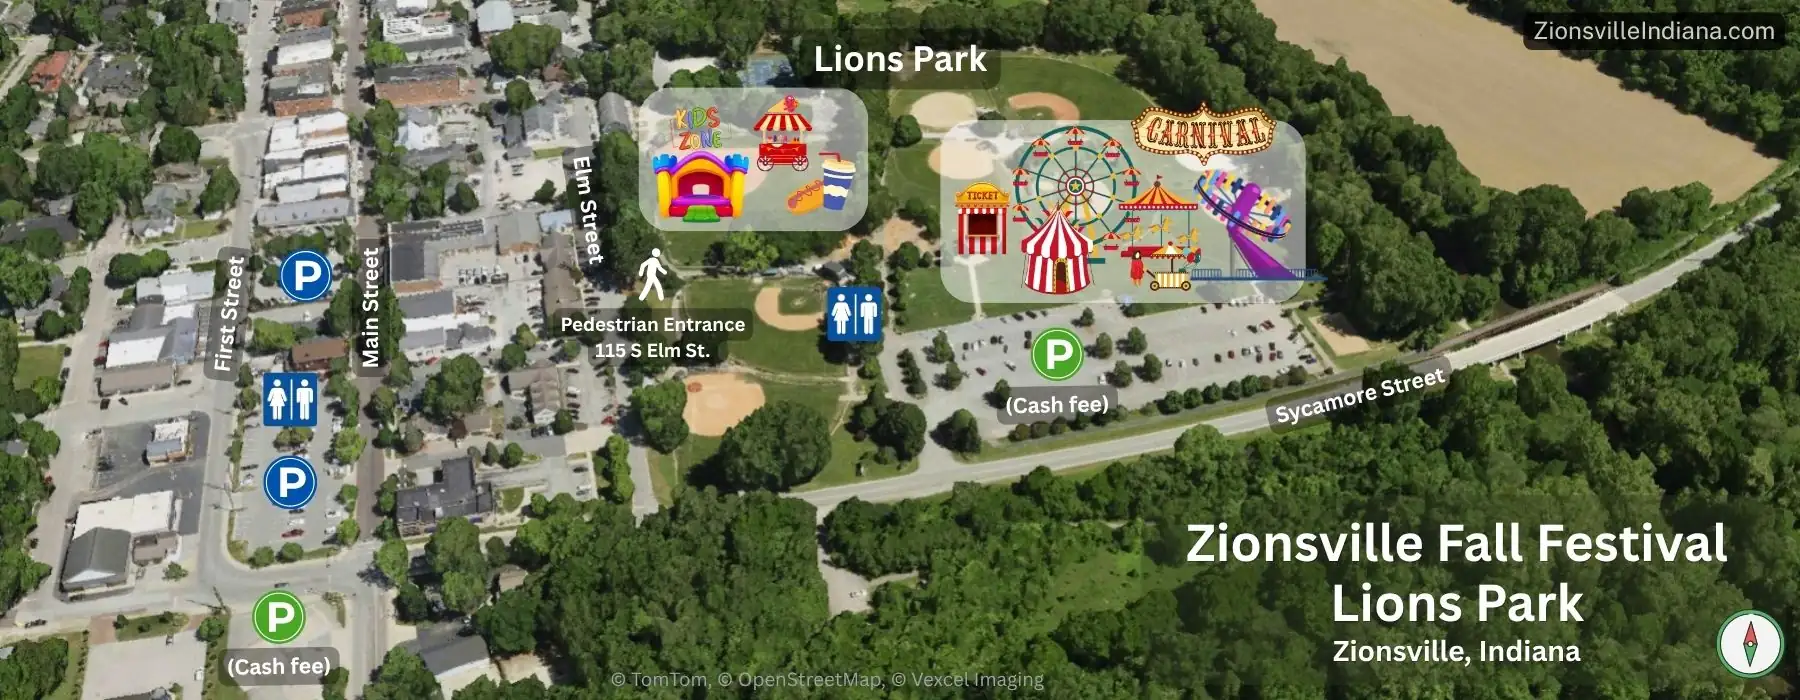
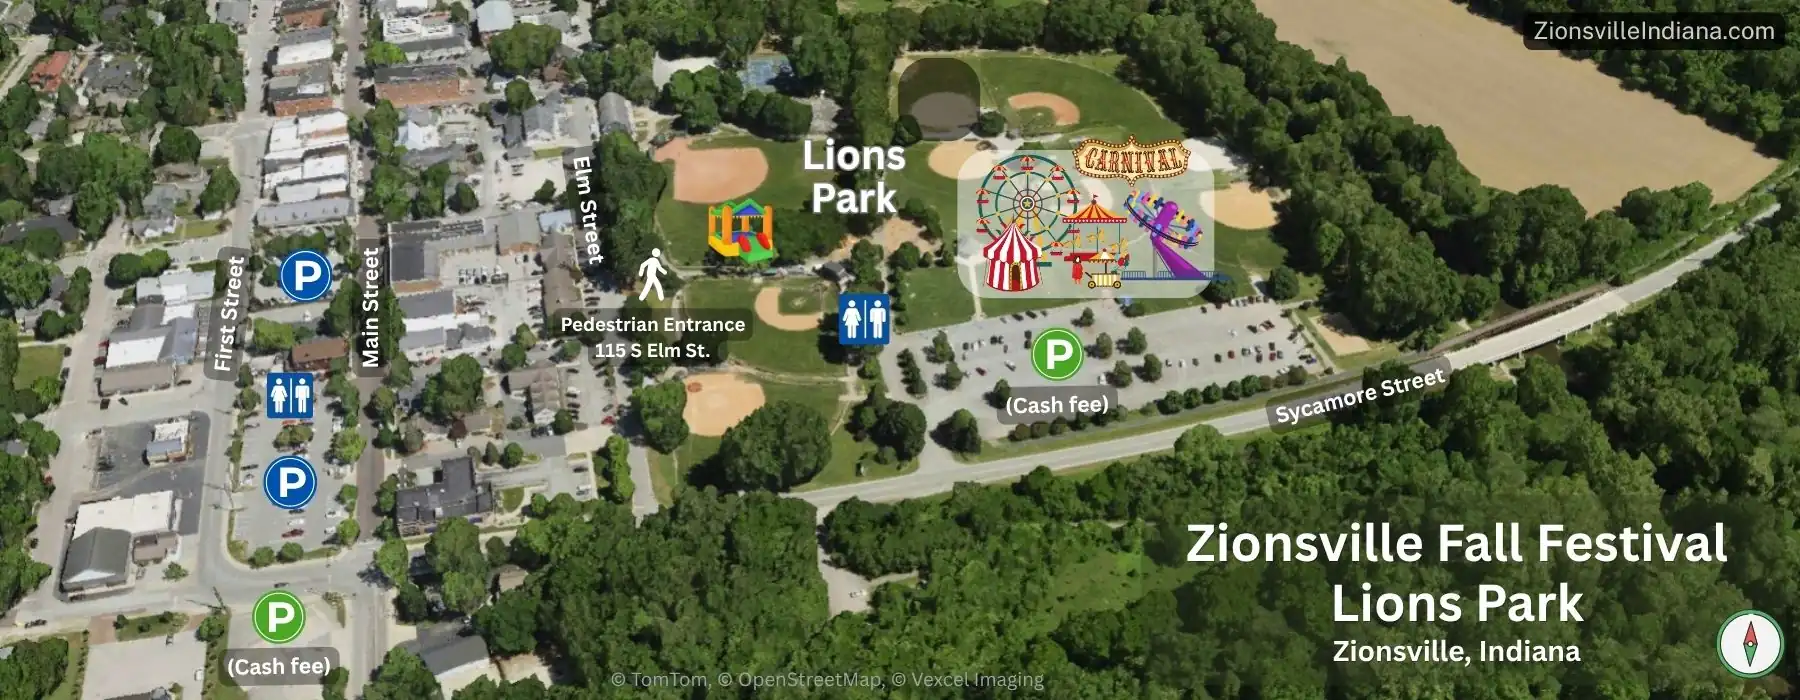
eagle fest

Changed region(s): [[0.3422, 0.03, 0.7467, 0.51], [0.1244, 0.54, 0.1867, 0.63]]

diff --git a/app/events/[slug]/page.tsx b/app/events/[slug]/page.tsx
@@ -36,14 +36,27 @@ export async function generateMetadata({ params }: Props): Promise<Metadata> {
   }
 }
 
+/** Accepts a short schema.org enum name ("EventScheduled", "InStock") or a
+ *  full URL. Returns a full https://schema.org/... URL either way. */
+function schemaUrl(value: string): string {
+  return value.startsWith('http') ? value : `https://schema.org/${value}`
+}
+
 function buildEventSchema(meta: Awaited<ReturnType<typeof getEvent>>['meta']) {
-  return {
+  const schema: Record<string, unknown> = {
     '@context': 'https://schema.org',
     '@type': meta.eventType === 'recurring' ? 'EventSeries' : 'Event',
     name: meta.title,
+    ...(meta.alternateName && { alternateName: meta.alternateName }),
     description: meta.description,
-    startDate: meta.startDate,
-    ...(meta.endDate && { endDate: meta.endDate }),
+    // Prefer full datetime if frontmatter provides it; else date-only.
+    startDate: meta.startDateTime ?? meta.startDate,
+    ...((meta.endDateTime || meta.endDate) && {
+      endDate: meta.endDateTime ?? meta.endDate,
+    }),
+    // Google assumes EventScheduled when omitted, but explicit is clearer
+    // and lets frontmatter override for cancelled/postponed events.
+    eventStatus: schemaUrl(meta.eventStatus ?? 'EventScheduled'),
     location: {
       '@type': 'Place',
       name: meta.location,
@@ -64,6 +77,21 @@ function buildEventSchema(meta: Awaited<ReturnType<typeof getEvent>>['meta']) {
       url: 'https://zionsvilleindiana.com',
     },
   }
+
+  // Ticket offer — optional. Emit only when frontmatter provides an `offer`
+  // block. Use a single Offer (not AggregateOffer) — the price and URL should
+  // point to a ticket a user can actually purchase at that price.
+  if (meta.offer) {
+    schema.offers = {
+      '@type': 'Offer',
+      price: meta.offer.price,
+      priceCurrency: meta.offer.priceCurrency,
+      url: meta.offer.url,
+      availability: schemaUrl(meta.offer.availability ?? 'InStock'),
+    }
+  }
+
+  return schema
 }
 
 function formatEventDate(meta: Awaited<ReturnType<typeof getEvent>>['meta']): string {

diff --git a/content/events/eagle-fest.md b/content/events/eagle-fest.md
@@ -1,0 +1,160 @@
+---
+title: Eagle Fest 2026
+alternateName: ["EagleFest 2026", "EagleFest"]
+seoTitle: "Eagle Fest 2026 in Zionsville: Tickets, Activities & Football"
+description: "Eagle Fest 2026 takes place Friday, August 28 at Jennings Field in Zionsville. Includes presale ticket prices, food trucks, activities, and game info."
+eventType: annual
+startDate: "2026-08-28"
+endDate: "2026-08-28"
+startDateTime: "2026-08-28T17:00:00-04:00"
+endDateTime: "2026-08-28T19:00:00-04:00"
+location: Jennings Field, Zionsville
+address: "1130 Bloor Ln, Zionsville, IN 46077"
+externalUrl: https://public.eventlink.com/tickets?t=196393&p=299710
+offer:
+  price: "9.90"
+  priceCurrency: "USD"
+  url: "https://public.eventlink.com/tickets?t=196393&p=299710"
+  availability: "InStock"
+image: /images/events/eagle-fest-hero.webp
+imageAlt: Eagle Fest at Jennings Field in Zionsville
+hero_position: "center 45%"
+photoCredit: ""
+photoCreditHeroOnly: false
+featured: true
+tags: [festival, family, annual, sports, school, football]
+metaTitle: "Eagle Fest 2026 in Zionsville: Tickets, Activities & Football"
+metaDescription: "Eagle Fest 2026: Friday, August 28 at Jennings Field. Bounce houses, food trucks, dunk tanks, school performances, and the ZCHS vs. Lawrence Central football game."
+faqs:
+  - q: "When is Eagle Fest 2026?"
+    a: "Eagle Fest 2026 is on Friday, August 28, 2026, from 5:00 to 7:00 PM at Jennings Field."
+  - q: "Where is Eagle Fest held?"
+    a: "Eagle Fest is held at Jennings Field, 1130 Bloor Ln, Zionsville, IN 46077, across Hal Sharpe Road from the Zionsville Community High School football stadium."
+  - q: "How much does Eagle Fest cost?"
+    a: "Admission is $9 for in-person presale, $9.90 for online presale, or $10 at the gate. Admission includes unlimited use of the bounce houses during the event."
+  - q: "Where can I buy Eagle Fest tickets?"
+    a: "In-person presale tickets are sold at Kern Bros. Shoes in Boone Village, Fundae’s, Zionsville Middle School, Zionsville West Middle School, and the ZCHS Athletic Department. Online tickets are available at Eventlink through Thursday, August 27."
+  - q: "Is the football game included with Eagle Fest admission?"
+    a: "No. Eagle Fest tickets do not include admission to the ZCHS football game. Football tickets are purchased separately at the stadium ticket window."
+  - q: "What food is available at Eagle Fest?"
+    a: "Scheduled food trucks include Backroads BBQ, Fillers, Fundae’s, Grace Truck, Taco Loco, The Savory Stagecoach, and Tropical Sno."
+  - q: "Are Eagle Fest tickets refundable?"
+    a: "No. Eagle Fest ticket sales are final and nonrefundable. Refunds are not issued for rain, inclement weather, or event cancellation."
+  - q: "Who plays the ZCHS football game after Eagle Fest?"
+    a: "The Zionsville Eagles host Lawrence Central at 7:30 PM on Friday, August 28, in the football stadium across the road from Jennings Field."
+  - q: "Is it Eagle Fest or EagleFest?"
+    a: "Both spellings refer to the same event. The Zionsville Athletic Booster Club uses ‘Eagle Fest,’ while some ZCS materials use ‘EagleFest.’ This page uses ‘Eagle Fest’ throughout."
+---
+
+Eagle Fest (also written EagleFest) returns for its 42nd year on Friday, August 28, 2026, kicking off the 2026–27 Zionsville school athletics season. This longtime community tradition brings families, students, school staff, and neighbors to Jennings Field for food trucks, bounce houses, games, music, and performances before the ZCHS football game later that evening.
+
+Organized by the Zionsville Athletic Booster Club, Eagle Fest also serves as a fundraiser supporting athletic programs at Zionsville Community High School, Zionsville Middle School, and Zionsville West Middle School.
+
+<figure>
+  <a href="/images/events/zionsville-eagle-fest-jennings-field-map.webp" target="_blank" rel="noopener noreferrer" aria-label="View full-size festival map in new tab">
+    <img src="/images/events/zionsville-eagle-fest-jennings-field-map.webp" alt="Aerial map showing Jennings Field event space, ticket admission entrance, designated parking lots, and Zionsville Community High School stadium." class="rounded-lg shadow-sm cursor-zoom-in" />
+  </a>
+  <figcaption class="text-xs text-stone-500 italic mt-2">
+    Aerial layout and parking map for Eagle Fest at Jennings Field, located across Hal Sharpe Road from the high school football stadium.
+  </figcaption>
+</figure>
+
+<div class="bg-amber-50 border-l-4 border-amber-400 rounded-r-lg px-6 py-5 my-8">
+
+## Good to Know Before You Go
+
+- **Presale ends Thursday, August 27.** Tickets are $9 in person or $9.90 online; admission is $10 at the gate (cash or credit card).
+- **Unlimited bounce house access** is included with admission.
+- **Parking at Jennings Field fills quickly.** Additional parking is available at ZCHS across Hal Sharpe Rd.
+- **Tickets are nonrefundable.** Ticket sales are final; refunds are not issued for rain, inclement weather, or event cancellation.
+- **Campus rules apply.** Alcohol, tobacco, drugs, and weapons are prohibited on school grounds.
+
+</div>
+
+## Event overview
+
+| Detail            | Information                                                     |
+| :---------------- | :-------------------------------------------------------------- |
+| **Date & Time**   | Friday, August 28, 2026 · 5:00–7:00 PM                          |
+| **Location**      | [Jennings Field](https://maps.app.goo.gl/u8eweNVAKn8mqMQV9), across Hal Sharpe Road from the ZCHS football stadium.   |
+| **Admission**     | $9 in-person presale · [$9.90 online presale](https://public.eventlink.com/tickets?t=196393&p=299710) · $10 at the gate   |
+| **Football Game** | ZCHS vs. Lawrence Central at 7:30 PM · Separate ticket required |
+
+<figure className="my-8">
+  <Image
+    src="/images/events/zionsville-eagle-fest-bounce-houses.webp"
+    alt="Inflatable bounce houses and obstacle courses on Jennings Field during Eagle Fest in Zionsville."
+    width={1800}
+    height={1200}
+    className="w-full h-auto rounded"
+  />
+  <figcaption className="text-sm text-stone-600 italic mt-2">
+    Families and children enjoying the inflatable bounce houses and games on Jennings Field.
+  </figcaption>
+</figure>
+
+## Ticket pricing & admission
+
+Eagle Fest admission includes entry to Jennings Field and unlimited use of the bounce houses during the event.
+
+- **In-Person Presale — $9:** Advance tickets are available at [Kern Bros. Shoes](https://maps.app.goo.gl/Xwx6uyspcJ9BctHK7) in Boone Village, [Fundae’s](https://maps.app.goo.gl/bmPVw4CbScibPDkBA), Zionsville Middle School, Zionsville West Middle School, and the ZCHS Athletic Department.
+- **[Online Presale — $9.90](https://public.eventlink.com/tickets?t=196393&p=299710):** Eventlink currently lists online presale tickets for $9.90. Presale ends Thursday, August 27.
+- **Gate Admission — $10:** Tickets can be purchased at Jennings Field on the night of Eagle Fest with cash or credit card.
+- **Football Admission:** Eagle Fest tickets do not include the ZCHS football game. Football admission is separate, with tickets available at the stadium ticket window.
+- **Refund Policy:** Eagle Fest ticket sales are final and nonrefundable. Refunds are not issued for rain, inclement weather, or event cancellation.
+
+[Buy Eagle Fest tickets online →](https://public.eventlink.com/tickets?t=196393&p=299710)
+
+## Activities & entertainment
+
+<figure className="my-8">
+  <Image
+    src="/images/events/zionsville-eagle-fest-food-trucks.webp"
+    alt="Outdoor dining area with white folding tables and food trucks lined up at Eagle Fest in Zionsville."
+    width={1800}
+    height={1200}
+    className="w-full h-auto rounded"
+  />
+  <figcaption className="text-sm text-stone-600 italic mt-2">
+    Visitors dining at outdoor tables near the food trucks during Eagle Fest at Jennings Field.
+  </figcaption>
+</figure>
+
+Eagle Fest fills Jennings Field with activities from 5:00 to 7:00 PM. Families can enjoy games, school and community booths, food trucks, and entertainment throughout the evening.
+
+- **Bounce Houses:** Admission includes unlimited access to the bounce houses.
+- **Dunk Tanks:** Students can take a shot at dunking ZCS teachers and school administrators.
+- **Games & Athletic Activities:** Families can participate in games and sports-related activities around the field.
+- **Community & Sponsor Booths:** Local organizations and businesses offer games, activities, and prize giveaways.
+- **DJ & Music:** Music plays throughout the evening as activities take place around Jennings Field.
+- **School Performances:** Cheerleaders, dance teams, and the marching band make appearances and perform during Eagle Fest.
+- **Food Trucks:** Scheduled vendors include Backroads BBQ, Fillers, Fundae’s, Grace Truck, Taco Loco, The Savory Stagecoach, and Tropical Sno.
+
+## Stay for Friday night football
+
+<figure className="my-8">
+  <Image
+    src="/images/events/zchs-football-game.webp"
+    alt="Crowded bleachers at Zionsville Community High School football stadium during a Friday night game."
+    width={1800}
+    height={1200}
+    className="w-full h-auto rounded"
+  />
+  <figcaption className="text-sm text-stone-600 italic mt-2">
+    Spectators fill the home stands at the ZCHS football stadium during a Zionsville Eagles football game.
+  </figcaption>
+</figure>
+
+Eagle Fest wraps up at 7:00 PM, giving attendees time to make the short walk from Jennings Field to ZCHS football stadium. The Zionsville Eagles host Lawrence Central at **7:30 PM**.
+
+Eagle Fest and the football game require separate tickets. Football tickets can be purchased at the stadium ticket window.
+
+## Supporting Zionsville school athletics
+
+Eagle Fest is organized by the Zionsville Athletic Booster Club, with Church Church Hittle + Antrim serving as the 2026 title sponsor. Money raised through the event supports athletic programs at Zionsville Community High School, Zionsville Middle School, and Zionsville West Middle School.
+
+The event has been a Zionsville tradition for more than 40 years and marks the beginning of another school athletics season.
+
+## Campus policy
+
+Alcohol, tobacco, drugs, and weapons are prohibited on school grounds.
